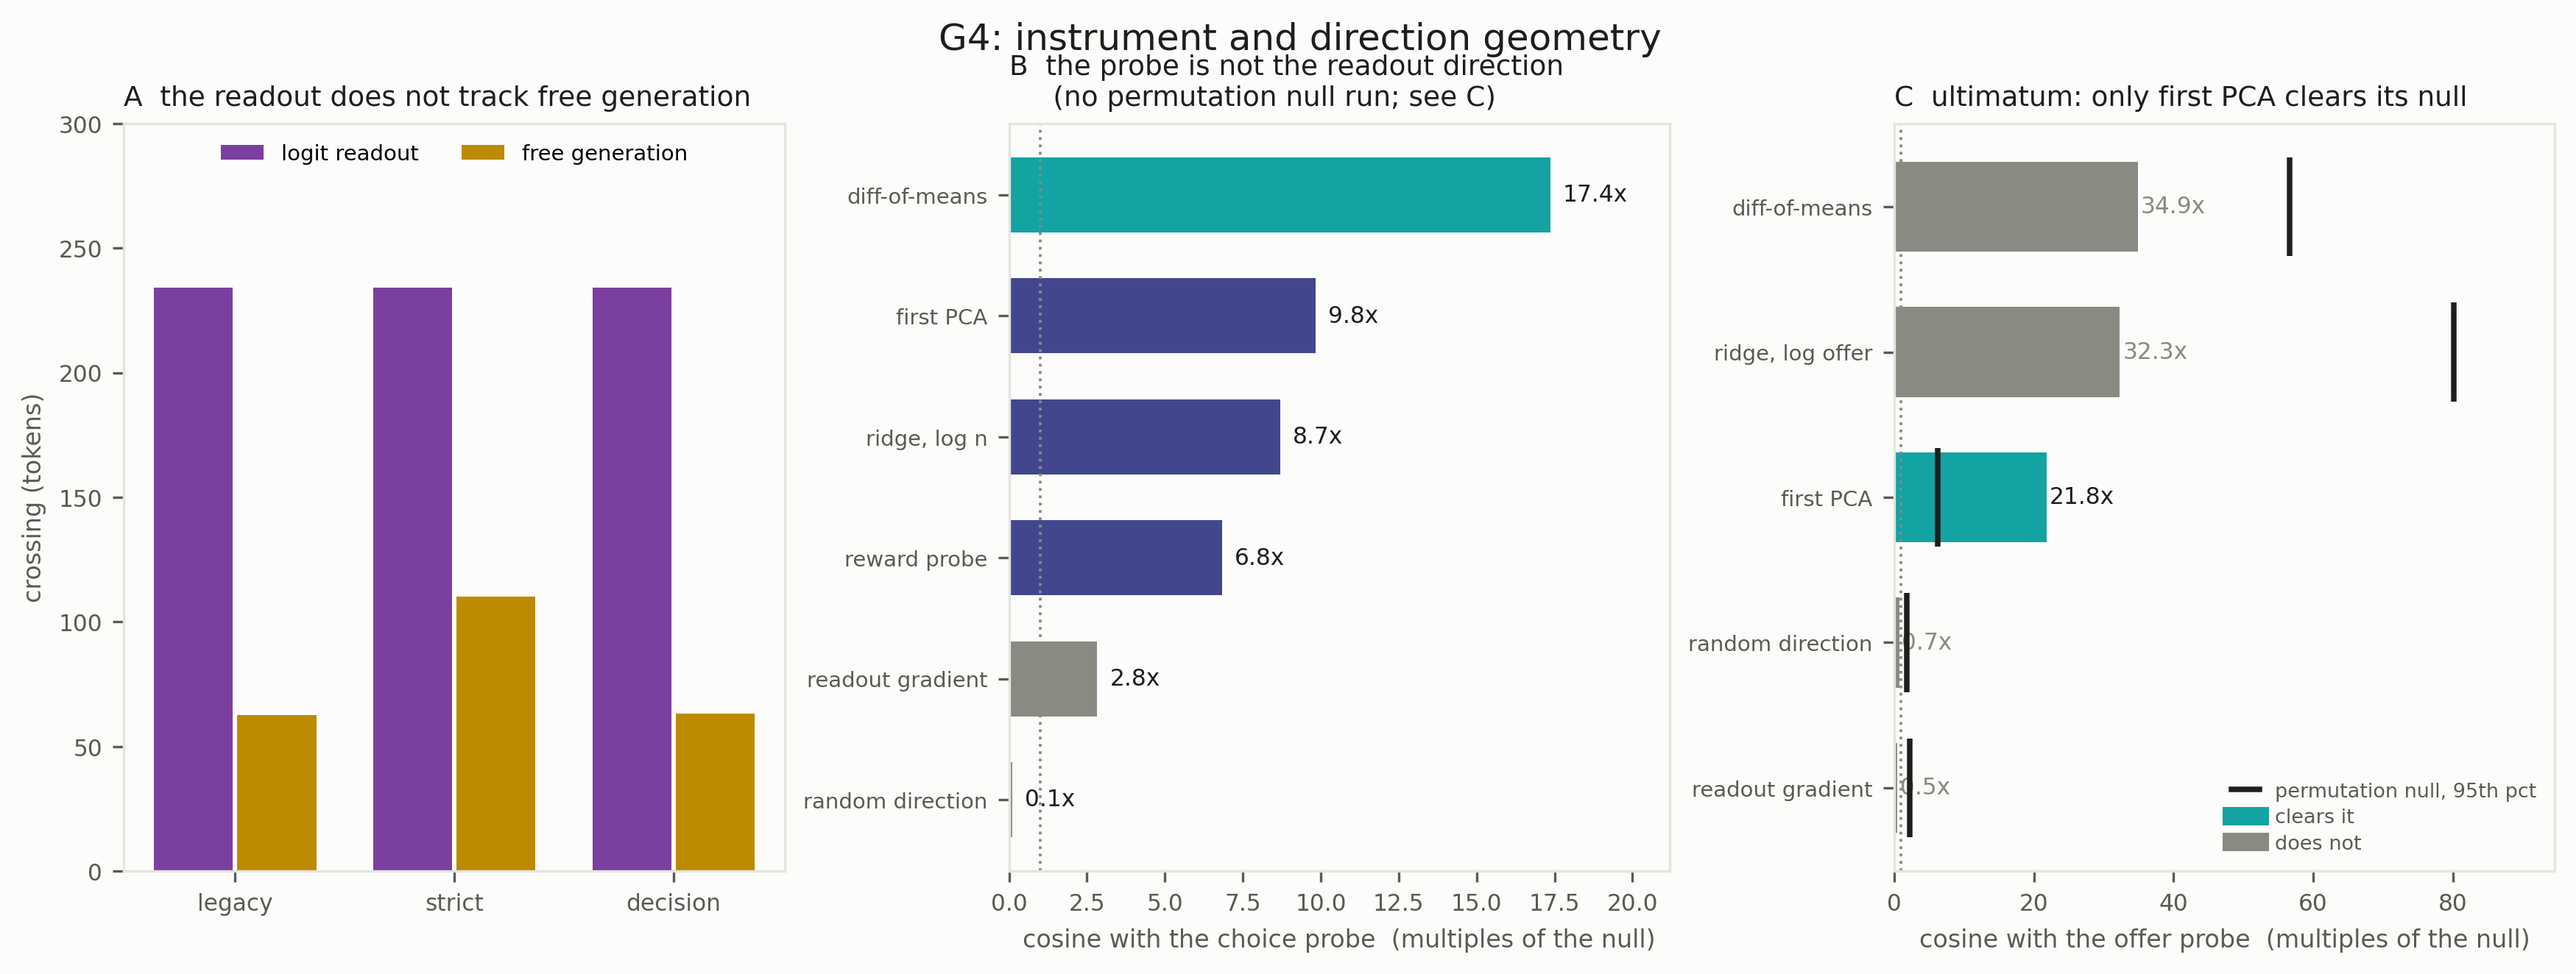
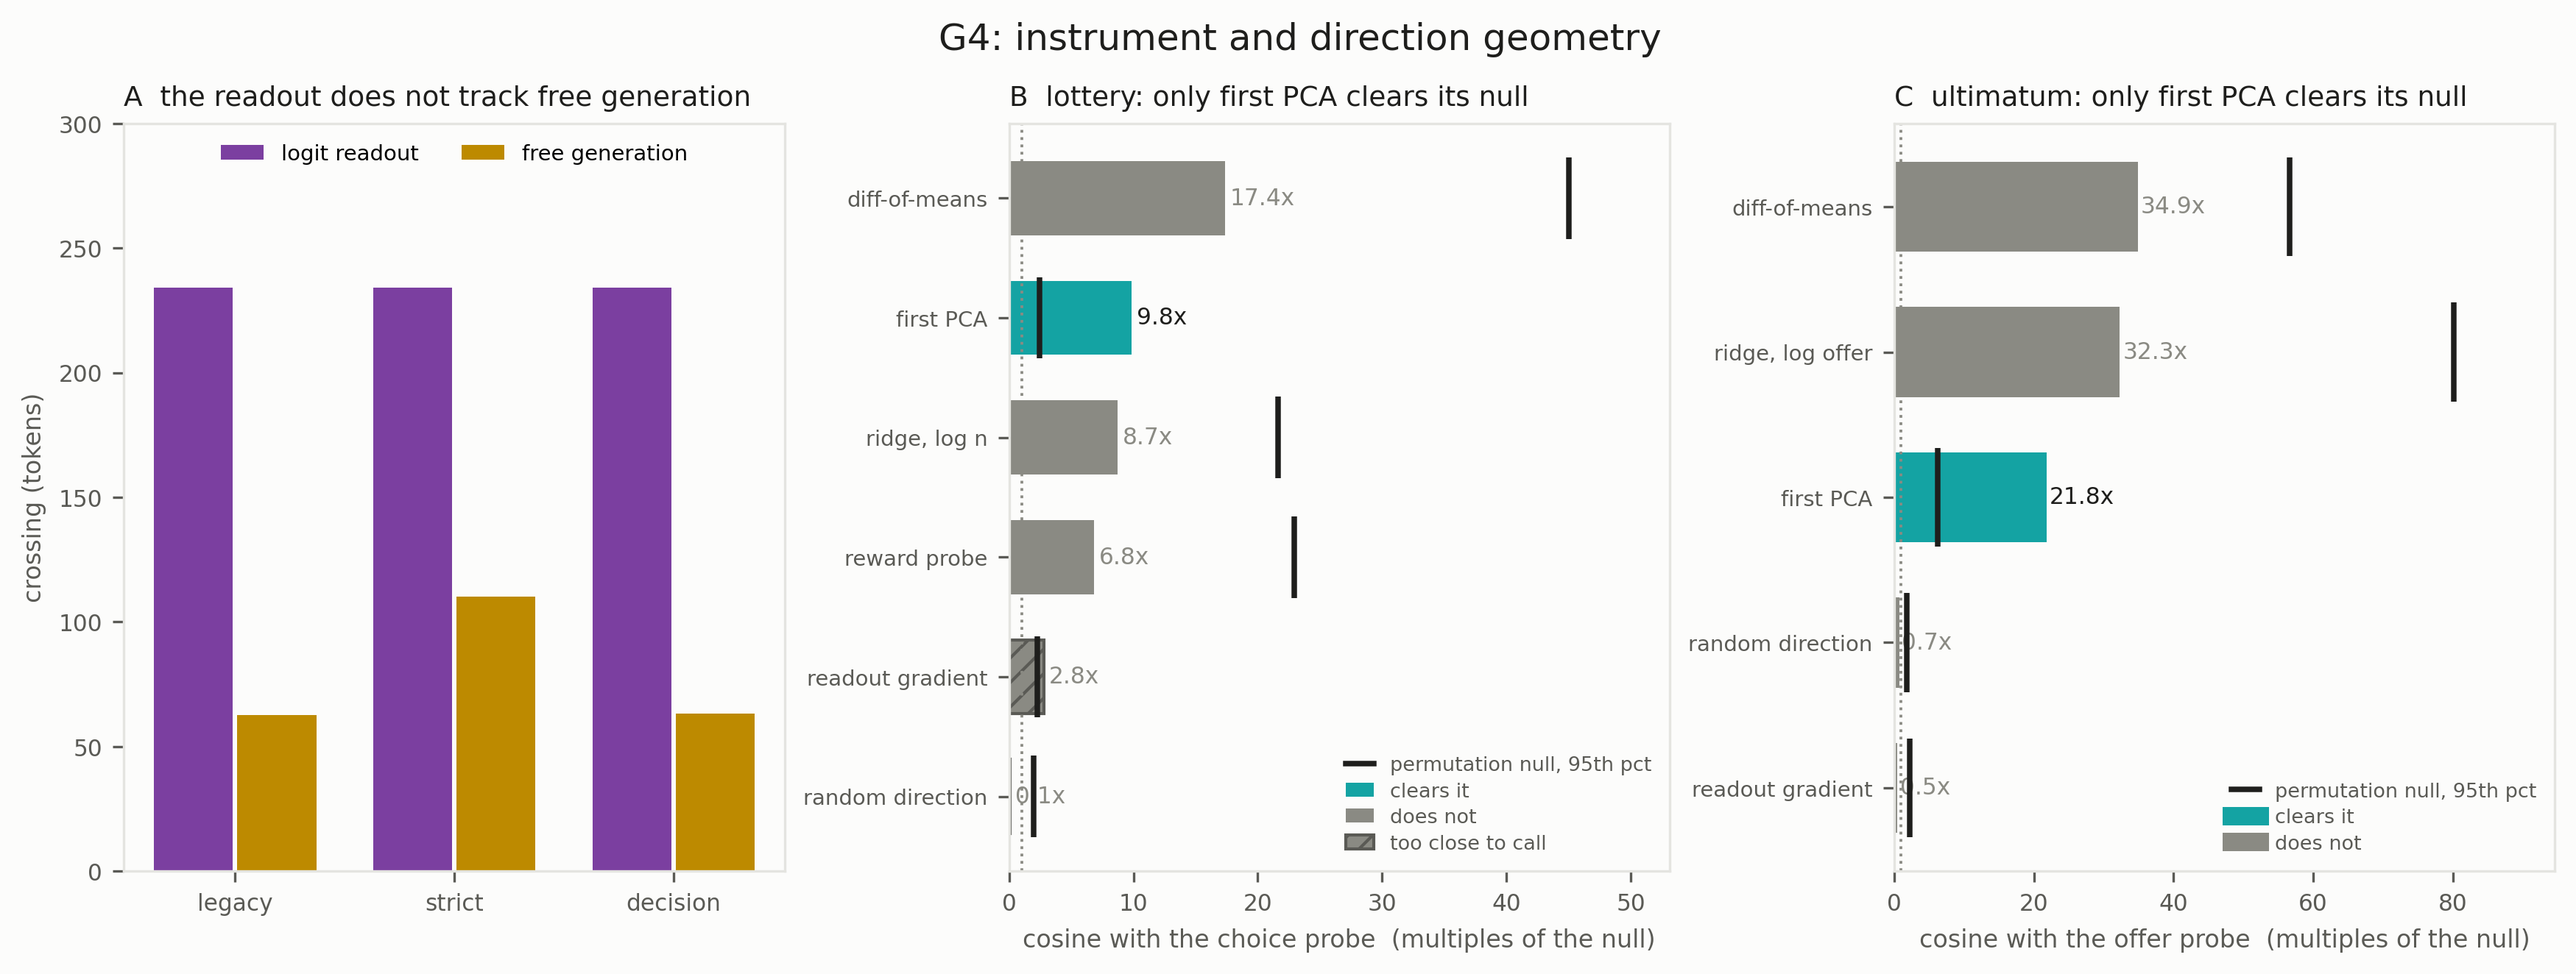
g4_summary panel B: draw the permutation null; hatch the bars whose verdict flips between fits

diff --git a/cv_bench/g4_figure.py b/cv_bench/g4_figure.py
@@ -66,21 +66,68 @@ def panel_e(ax):
             continue
         labels.append(lab)
         vals.append(float(np.mean(m)))
+    # The permutation null, from the g4null re-collection. The probe does not
+    # reproduce between runs, so the refit's own cosine is carried alongside:
+    # a bar is only called either way when both fits agree about its null.
+    import csv as _csv
+    R = os.environ.get("ICLR_RUNROOT",
+                       "/orcd/data/gabrieli/001/guna23/iclr_risk_2027")
+    nrows = {r["direction"]: r for r in
+             _csv.DictReader(open(f"{R}/g4null/g4null_lottery.csv"))}
+    keys = [k for k, _ in want if any(l == lab for l, (k2, lab) in
+                                      zip(labels, want) if k2 == k)]
+    keys = [k for k, lab in want if lab in labels]
+    p95 = [float(nrows[k]["perm_null_p95"]) if k in nrows else float("nan")
+           for k in keys]
+    refit = [float(nrows[k]["multiples_of_null"]) if k in nrows else float("nan")
+             for k in keys]
     order = np.argsort(vals)
     labels = [labels[i] for i in order]
+    p95 = [p95[i] for i in order]
+    refit = [refit[i] for i in order]
     vals = [vals[i] for i in order]
     ys = np.arange(len(vals))
-    cols = [TEAL if v >= 10 else (NAVY if v >= 3 else MUTED) for v in vals]
-    ax.barh(ys, vals, color=cols, height=0.62)
-    for i, v in enumerate(vals):
-        ax.text(v + 0.4, i, f"{v:.1f}x", va="center", color=INK, fontsize=7.5)
-    ax.set_xlim(0, max(vals) * 1.22)
+    # teal: clears under both fits. grey: inside under both. hatched: they differ.
+    state = []
+    for v, r, q in zip(vals, refit, p95):
+        if q != q:
+            state.append("none")
+        elif (v > q) == (r > q):
+            state.append("clears" if v > q else "inside")
+        else:
+            state.append("split")
+    cols = [TEAL if st == "clears" else MUTED for st in state]
+    bars = ax.barh(ys, vals, color=cols, height=0.62,
+                   hatch=["///" if st == "split" else "" for st in state],
+                   edgecolor=INK2, linewidth=0.0)
+    for b, st in zip(bars, state):
+        if st == "split":
+            b.set_linewidth(1.0)
+    for i, q in enumerate(p95):
+        if q == q:
+            ax.plot([q, q], [i - 0.34, i + 0.34], color=INK, lw=1.8, zorder=6,
+                    solid_capstyle="butt")
+    for i, (v, st) in enumerate(zip(vals, state)):
+        ax.text(v + 0.4, i, f"{v:.1f}x", va="center",
+                color=INK if st == "clears" else MUTED, fontsize=7.5)
+    ax.set_xlim(0, max(vals + [q for q in p95 if q == q]) * 1.18)
     ax.axvline(1.0, color=MUTED, lw=0.9, ls=":")
     ax.set_yticks(ys)
     ax.set_yticklabels(labels, fontsize=7)
     ax.set_xlabel("cosine with the choice probe  (multiples of the null)",
                   color=INK2, fontsize=8)
-    ax.set_title("B  the probe is not the readout direction\n     (no permutation null run; see C)", color=INK, fontsize=9, loc="left")
+    from matplotlib.lines import Line2D
+    from matplotlib.patches import Patch
+    ax.legend(handles=[Line2D([], [], color=INK, lw=1.8,
+                              label="permutation null, 95th pct"),
+                       Patch(facecolor=TEAL, label="clears it"),
+                       Patch(facecolor=MUTED, label="does not"),
+                       Patch(facecolor=MUTED, hatch="///", edgecolor=INK2,
+                             label="too close to call")],
+              loc="lower right", frameon=False, fontsize=6.5, labelcolor=INK2,
+              handlelength=1.4, labelspacing=0.35)
+    ax.set_title("B  lottery: only first PCA clears its null",
+                 color=INK, fontsize=9, loc="left")
 
 
 

diff --git a/logs/DECISIONS.md b/logs/DECISIONS.md
@@ -1680,3 +1680,41 @@ dominant variance in the activations rather than about contrast.
 
 Not done: panel B still shows the reported bars with no ticks. Making it match panel C means
 recomputing it from these arrays, which changes every bar (D99). Left for the authors.
+
+## D101 — the null is drawn on the lottery panel too (23 Sept)
+
+Panel B now carries the permutation null, so the two geometry panels match. Both are titled
+"only first PCA clears its null", which is what both games show.
+
+The bars are unchanged. They are still `g4b_geometry.csv`'s reported values, so the panel still
+matches the reports and the manifest. What is added is each direction's null as a tick, and a
+colour rule that is honest about D99's instability:
+
+    teal    the bar clears its null under BOTH the reported fit and the g4null refit
+    grey    it is inside the null under both
+    hatched the two fits disagree, so the bar is too close to call
+
+That third case exists because the probe does not reproduce between runs. Checked per bar:
+
+    direction     reported   refit   null p95   verdict
+    diff-of-means     17.4    19.3       45.0   inside, both fits
+    first PCA          9.8    13.3        2.5   CLEARS, both fits
+    ridge, log n       8.7    12.0       21.6   inside, both fits
+    reward probe       6.8    11.4       22.9   inside, both fits
+    readout gradient   2.8     1.7        2.2   FLIPS
+    random direction   0.1     2.9        2.0   FLIPS
+
+The four substantive directions agree under both fits, which is why the panel can be drawn at
+all without recomputing the bars. Only the two sitting on top of the null flip, and those are
+hatched rather than coloured either way.
+
+Why the bars were not recomputed from the refit, which was the alternative: it would change
+every value (diff-of-means 17.4 to 19.3, reward probe 6.8 to 11.4), break agreement with
+`g4b_geometry.csv`, `MANIFEST.csv` and the reports, and change nothing about the conclusion,
+since all four verdicts are identical either way. Cheapest to reverse was to leave the bars and
+add the test.
+
+The headline now holds in both games and under both fits: difference of means is the tallest bar
+in each panel and inside its null in each. The title claim that the probe is a contrastive
+direction is not supported. The first principal component is the only direction that clears,
+which is a statement about dominant variance rather than about contrast.
